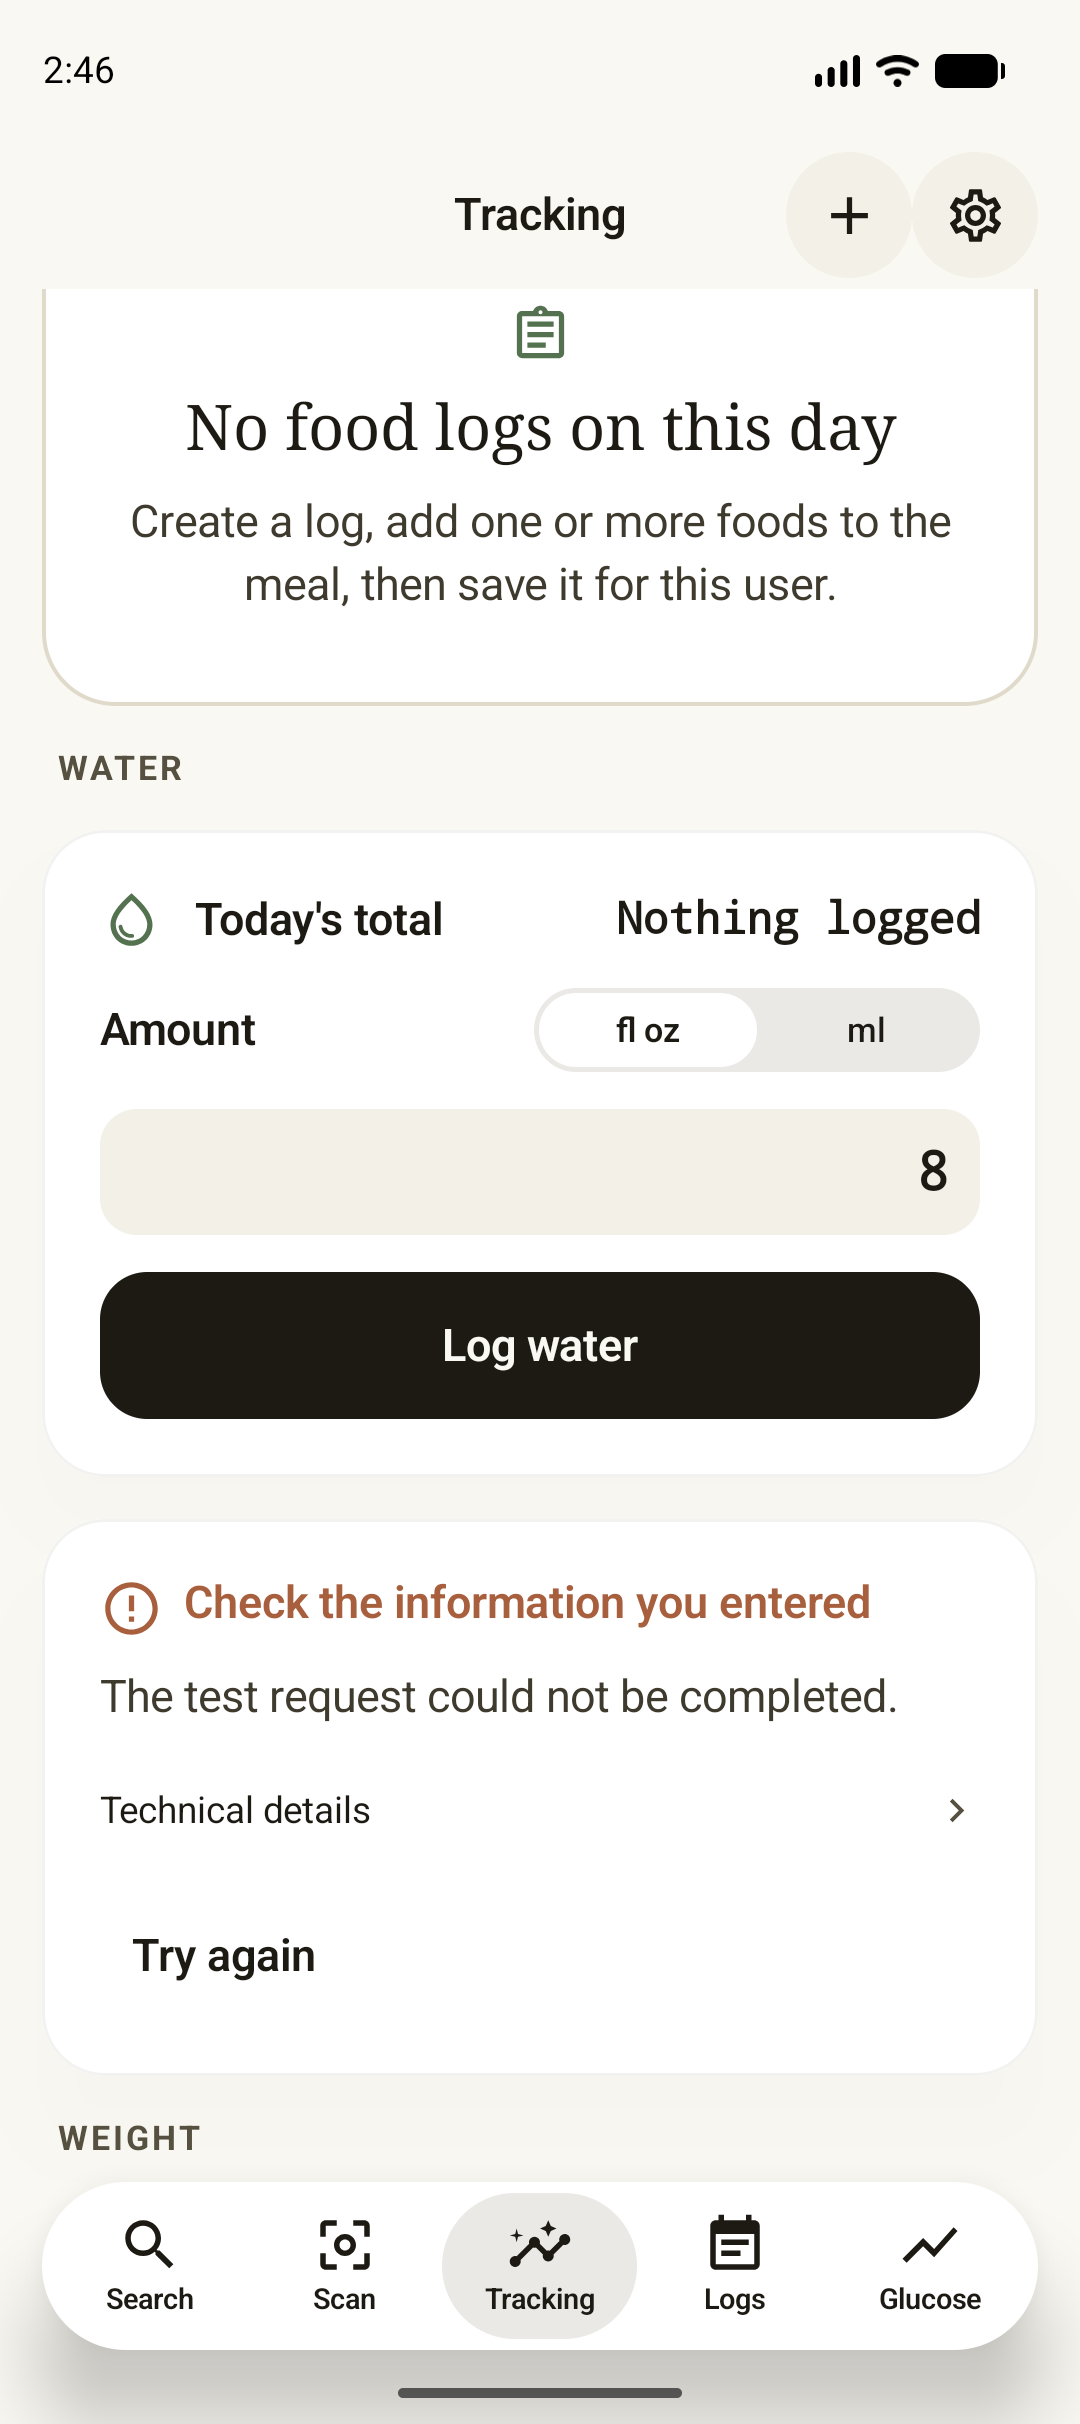
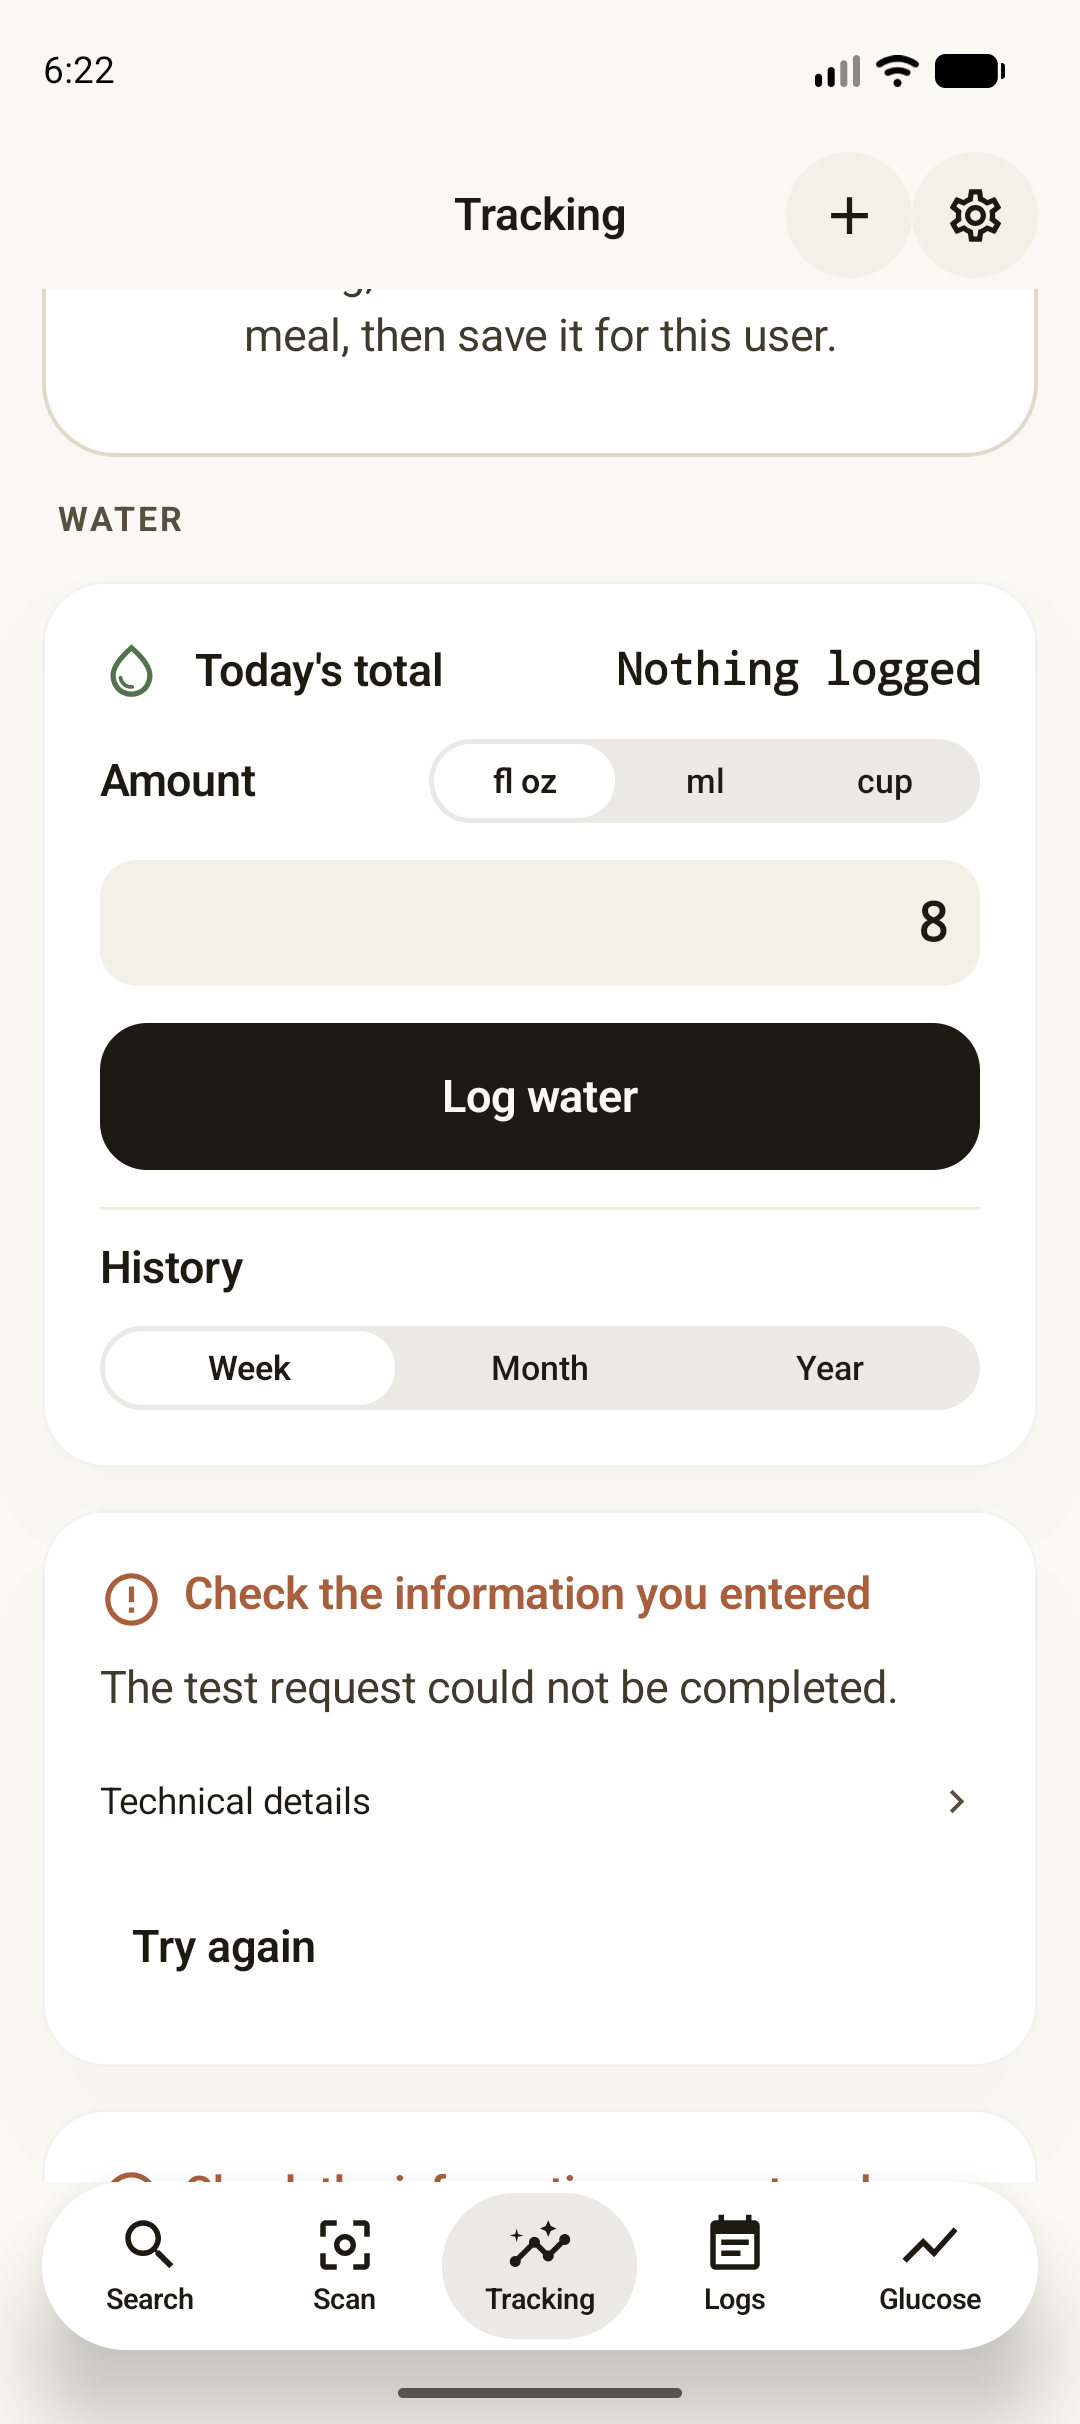
Serve a year of water and weight from the fixture server and test the Tracking charts
The fixture server can seed about 13 months of history ending today, and its
water and weight lists now return at most the 100 most recent days, like the
API. A new Maestro flow checks both charts for a week, a month and a year,
then their empty states. The existing Tracking flows scroll to controls the
taller cards moved off screen, and the recovery flow retries the water chart.

diff --git a/demo/.maestro/scripts/seed-history.js b/demo/.maestro/scripts/seed-history.js
@@ -1,0 +1,9 @@
+// Seeds the fixture server with about 13 months of water and weight history
+// ending today, so the Tracking charts have data for every range.
+// Maestro runs this on the host; override with -e FIXTURE_CONTROL=... when the
+// fixture server listens elsewhere.
+const control = typeof FIXTURE_CONTROL === 'string' && FIXTURE_CONTROL ? FIXTURE_CONTROL : 'http://127.0.0.1:18766';
+const response = http.get(control + '/__seed_history');
+if (!response.ok) {
+  throw new Error('Fixture history seed failed: HTTP ' + response.status);
+}

diff --git a/qa/parity/fixture_server.py b/qa/parity/fixture_server.py
@@ -56,6 +56,19 @@ def stamp(value):
   parsed=datetime.fromisoformat(value.replace('Z','+00:00'))
  else:parsed=datetime.now(timezone.utc)
  return parsed.astimezone(timezone.utc).strftime('%Y-%m-%dT%H:%M:%S.')+'%03dZ'%(parsed.microsecond//1000)
+def history():
+ # About 13 months of water and weight ending today (noon UTC, so the same calendar day in
+ # any timezone within 11 hours of UTC): water on three days in four, a weight every third
+ # day drifting down toward today, every fourth weight logged in pounds.
+ today=datetime.now(timezone.utc).replace(hour=12,minute=0,second=0,microsecond=0);water=[];weights=[]
+ for i in range(400):
+  at=(today-timedelta(days=i)).strftime('%Y-%m-%dT%H:%M:%S.000Z')
+  if i%4!=3:water.append(dict(id='history-%d'%i,ml=1400+(i*137)%900,consumed_at=at))
+  if i%3==0:
+   kg=round(70+i*0.012+((i*7)%5)*0.1,1)
+   weights.append(dict(weight=dict(value=round(kg/0.45359237,1),unit='lb') if i%12==0 else dict(value=kg,unit='kg'),measured_at=at))
+ return water,weights
+LIST_LIMIT=100
 state={'rules':{},'logs':[],'water':[],'weights':[],'requests':[]}
 class Handler(BaseHTTPRequestHandler):
  def log_message(self,*args):pass
@@ -71,6 +84,7 @@ class Handler(BaseHTTPRequestHandler):
   if path=='/__reset':state.update(rules={},logs=[],water=[],weights=[],requests=[]);return self.respond({})
   if path=='/__control':state['rules'][q['route']]=q;return self.respond({})
   if path=='/__seed':state['logs']=[log()];return self.respond({})
+  if path=='/__seed_history':state['water'],state['weights']=history();return self.respond({})
   if path=='/__requests':return self.respond(state['requests'])
   state['requests'].append(dict(method=self.command,path=path,query=q,body=body))
   rule=state['rules'].get(path,{})
@@ -106,7 +120,7 @@ class Handler(BaseHTTPRequestHandler):
     state['water']=[w for w in state['water'] if w['id']!=path.rsplit('/',1)[1]];return self.respond(None,204)
    totals={}
    for w in state['water']:day=local_day(w['consumed_at'],q);totals[day]=totals.get(day,0)+w['ml']
-   result=dict(items=[] if empty else [dict(date=d,total=volume(ml,q.get('unit','fl_oz'))) for d,ml in sorted(totals.items()) if in_range(d,q)])
+   result=dict(items=[] if empty else [dict(date=d,total=volume(ml,q.get('unit','fl_oz'))) for d,ml in sorted(totals.items()) if in_range(d,q)][-LIST_LIMIT:])
   elif '/weight-logs' in path:
    if self.command=='POST':
     result=dict(weight=body.get('weight'),measured_at=stamp(body.get('measured_at')))
@@ -115,7 +129,7 @@ class Handler(BaseHTTPRequestHandler):
    for w in state['weights']:
     day=local_day(w['measured_at'],q)
     if day not in latest or w['measured_at']>=latest[day]['measured_at']:latest[day]=w
-   result=dict(items=[] if empty else [dict(date=d,weight=w['weight']) for d,w in sorted(latest.items()) if in_range(d,q)])
+   result=dict(items=[] if empty else [dict(date=d,weight=w['weight']) for d,w in sorted(latest.items()) if in_range(d,q)][-LIST_LIMIT:])
   elif path.endswith('/food-logs/summary'):result=summary(q)
   elif '/food-logs' in path:
    if self.command=='GET':result=dict(items=[] if empty else [l for l in state['logs'] if in_range(local_day(l['eaten_at'],q),q)])

diff --git a/demo/.maestro/README.md b/demo/.maestro/README.md
@@ -32,7 +32,8 @@ maestro test -e FIXTURE_ORIGIN=http://127.0.0.1:18766 demo/.maestro/flows
 
 Flows change the fixture server's behaviour through `scripts/control-fixture.js`
 (HTTP status, delay, empty collections per route), `seed-fixture.js` (one saved
-food log) and `reset-fixture.js`, which the bootstrap runs first so no flow
+food log), `seed-history.js` (about 13 months of water and weight ending today)
+and `reset-fixture.js`, which the bootstrap runs first so no flow
 inherits another's configuration.
 
 ## Conventions
@@ -48,7 +49,13 @@ inherits another's configuration.
   (`logs-day-previous`, `logs-day-next`, `logs-day-today`, `logs-day-label`)
   showing that day's food logs and totals (`food-logs-totals`), water
   (`water-total` or `water-empty`, `water-log`, `water-delete-last`) and weight
-  (`weight-day` or `weight-empty`, `weight-log`). The Logs tab
+  (`weight-day` or `weight-empty`, `weight-log`). Each of the water and weight
+  cards ends with a history chart that always runs to today (`water-chart` or
+  `water-chart-empty`, `weight-chart` or `weight-chart-empty`) and its range
+  switch (`water-chart-range-week`, `-month`, `-year`, and the same for
+  `weight-chart-range-*`); the chart's accessibility summary names the range
+  and what it shows. The fixture's water and weight lists return at most the
+  100 most recent days, like the API, so a Year chart takes several requests. The Logs tab
   (`tab-food-logs`, `food-logs-screen`) lists food logs over a date range. `seed-fixture.js` dates its saved food log an hour ago, so it
   falls on today; the fixture server buckets logs, water and weight by the
   request's timezone, like the API.
@@ -56,7 +63,7 @@ inherits another's configuration.
 ## In CI
 
 `.github/workflows/quality.yml` builds the APK once, then `ui-test-android`
-runs four shards (27 flows, dealt round-robin by `shard.mjs`) through
+runs four shards (28 flows, dealt round-robin by `shard.mjs`) through
 `.github/scripts/android-ui-suite.sh`. Failed flows are
 rerun once and named in a workflow warning; each shard uploads its JUnit report
 and Maestro's failure screenshots and view hierarchies as `maestro-android-N`.
